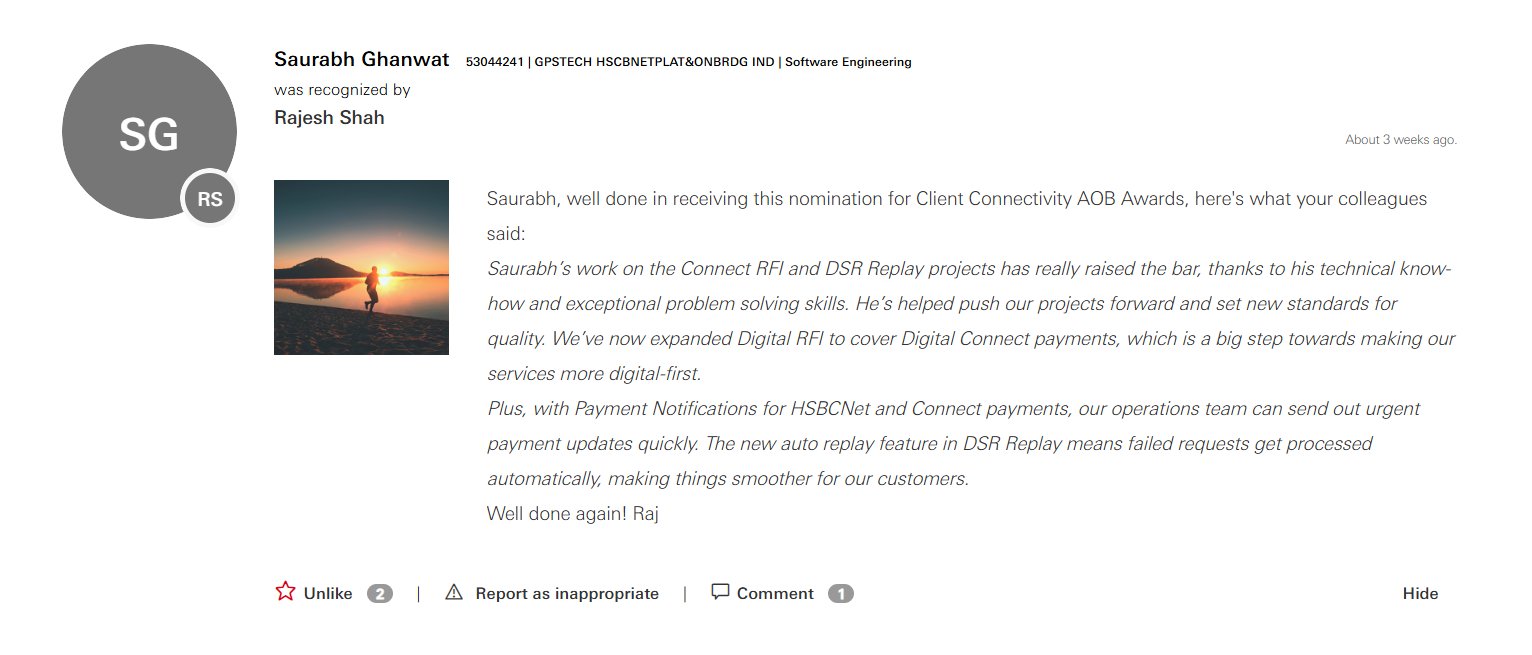
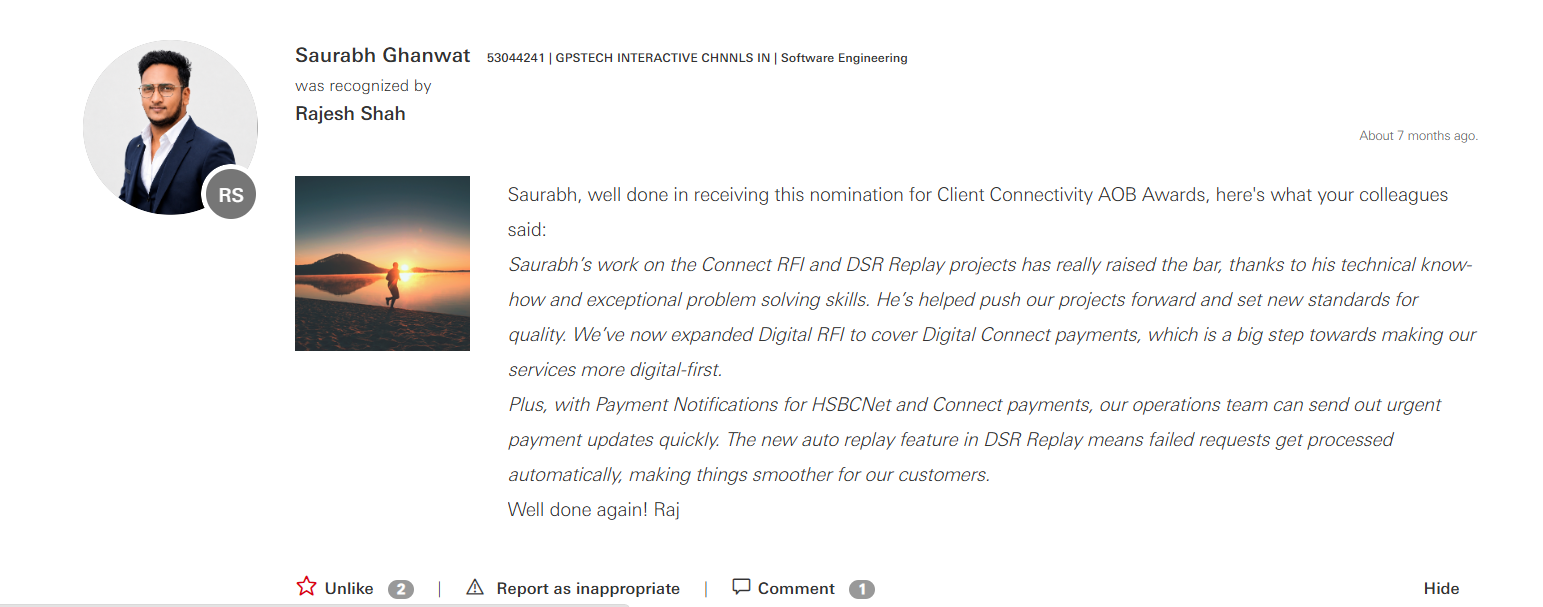
Added new awards and photo

diff --git a/src/App.js b/src/App.js
@@ -39,7 +39,8 @@ import excellenceAward2 from './assets/Excellence2.jpg';
 import excellenceAward from './assets/Excellence.jpg';
 import patAward1 from './assets/PatQ1.jpg';
 import patAward2 from './assets/PatQ2.jpg';
-import aobAward from './assets/AOB.png';
+import aobAward1 from './assets/AOB.png';
+import aobAward2 from './assets/AOB2.png';
 import { GoCopilot } from 'react-icons/go';
 import { DiDocker, DiIntellij, DiJenkins, DiMongodb, DiMysql, DiPostgresql } from 'react-icons/di';
 
@@ -221,7 +222,7 @@ const Hero = () => {
               animate={{ opacity: 1, y: 0 }}
               transition={{ duration: 0.8, delay: 0.6 }}
             >
-            Backend engineer with 6+ years of hands-on experience building scalable systems using Java, Spring Boot, and microservices architecture. Strong in databases, API gateways, CI/CD pipelines, message queues, and cloud platforms.
+            Backend engineer with 6.8+ years of hands-on experience building scalable systems using Java, Spring Boot, and microservices architecture. Strong in databases, API gateways, CI/CD pipelines, message queues, and cloud platforms.
             </motion.p>
             
             <motion.div
@@ -286,7 +287,7 @@ const Hero = () => {
             <div className="relative">
               <div className="absolute inset-0 bg-primary rounded-full transform rotate-12 scale-110 opacity-20 animate-glow"></div>
               <img
-                src={`${process.env.PUBLIC_URL}/work_experience/Profile3.jpg`}
+                src={`${process.env.PUBLIC_URL}/work_experience/Profile4.jpg`}
                 alt="Saurabh Ghanwat"
                 className="relative w-64 h-64 sm:w-80 sm:h-80 md:w-96 md:h-96 rounded-full object-cover shadow-large border-4 border-primary/30"
               />
@@ -342,7 +343,7 @@ Focused on backend application development, database management, operating syste
                 <h3 className="text-xl sm:text-2xl font-semibold text-white">Experience</h3>
               </div>
               <p className="text-gray-300 leading-relaxed text-sm sm:text-base">
-                6+ years of hands-on experience in building backend applications using Java, Spring Boot, and microservices. 
+                6.8+ years of hands-on experience in building backend applications using Java, Spring Boot, and microservices. 
                 Experienced in both startups and large companies like L&T Infotech, and currently contributing to banking domain at HSBC. 
               </p>
             </div>
@@ -1013,7 +1014,14 @@ const Experience = () => {
           text: "Received ",
           awardName: "AOB Recognition",
           afterText: " from leadership for excellent work",
-          image: aobAward,
+          image: aobAward2,
+          hasImage: true
+        },
+        {
+          text: "Received ",
+          awardName: "AOB Recognition",
+          afterText: " from leadership for excellent work",
+          image: aobAward1,
           hasImage: true
         },
       ]
@@ -1179,6 +1187,13 @@ const Recognitions = () => {
 
   const recognitions = [
     {
+      title: "Star Performer",
+      issuer: "HSBC",
+      icon: SiSpringboot,
+      color: "primary",
+      image: `${process.env.PUBLIC_URL}/certificates/Star.jpg`
+    },
+    {
       title: "Circle Of Excellence",
       issuer: "HSBC",
       icon: SiSpringboot,
@@ -1205,6 +1220,13 @@ const Recognitions = () => {
       icon: SiSpringboot,
       color: "primary",
       image: `${process.env.PUBLIC_URL}/certificates/PatQ2.jpg`
+    },
+       {
+      title: "AOB Recognition",
+      issuer: "HSBC",
+      icon: SiSpringboot,
+      color: "primary",
+      image: `${process.env.PUBLIC_URL}/certificates/AOB2.png`
     },
     {
       title: "AOB Recognition",
